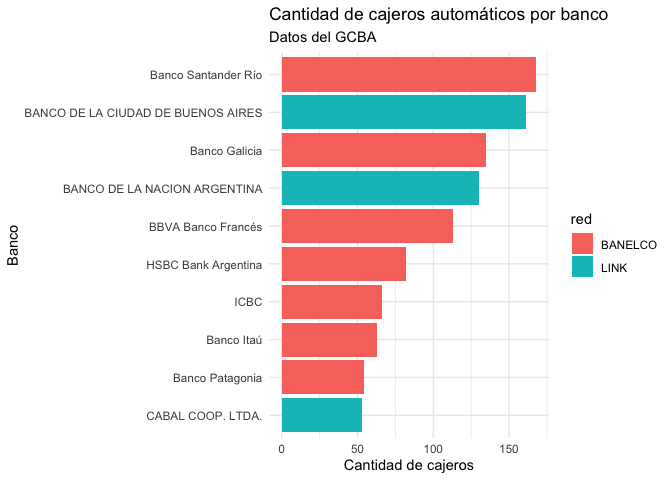
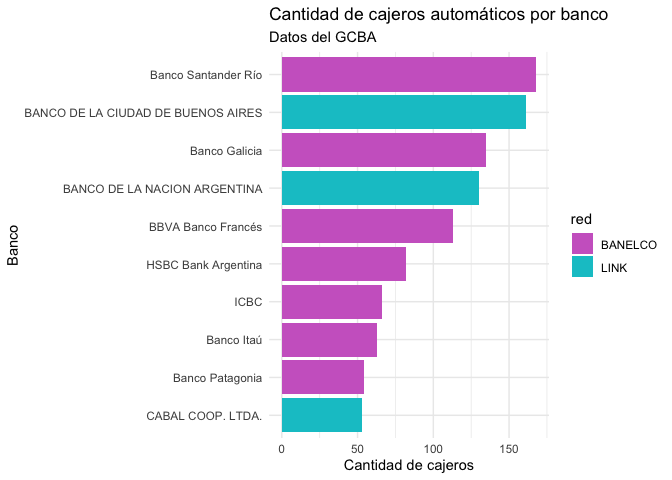
Cajeros automáticos en caba - script r knit

diff --git a/r-script-knit.md b/r-script-knit.md
@@ -1,12 +1,17 @@
 Script knitteado
 ================
 karinabartolome
-2021-05-05
+2021-05-06
 
 ``` r
-#  Comentario
+#  Cajeros automáticos
 library(dplyr)
+library(biscale)
 library(ggplot2)
+library(cowplot)
+library(stringr)
+library(sf)
+
 df <- read.csv('https://cdn.buenosaires.gob.ar/datosabiertos/datasets/cajeros-automaticos/cajeros-automaticos.csv')
 df %>% 
   group_by(banco, red) %>% 
@@ -16,9 +21,77 @@ df %>%
   ggplot(aes(x=reorder(banco,n),y=n, fill=red))+
     geom_col()+
     coord_flip()+
+    scale_fill_manual(values=c('orchid3','turquoise3'))+
     labs(title='Cantidad de cajeros automáticos por banco', 
          subtitle='Datos del GCBA', x='Banco',y='Cantidad de cajeros')+
     theme_minimal()
 ```
 
 ![](r-script-knit_files/figure-gfm/unnamed-chunk-1-1.png)<!-- -->
+
+``` r
+# Mapa barrios CABA
+
+caba <- st_read('http://cdn.buenosaires.gob.ar/datosabiertos/datasets/barrios/barrios.geojson') %>% 
+  mutate(barrio=str_to_title(barrio)) 
+```
+
+    ## Reading layer `barrios_badata' from data source `http://cdn.buenosaires.gob.ar/datosabiertos/datasets/barrios/barrios.geojson' using driver `GeoJSON'
+    ## Simple feature collection with 48 features and 4 fields
+    ## Geometry type: POLYGON
+    ## Dimension:     XY
+    ## Bounding box:  xmin: -58.53152 ymin: -34.70529 xmax: -58.33515 ymax: -34.52649
+    ## Geodetic CRS:  WGS 84
+
+``` r
+# Cantidad de cajeros por barrio
+df <- df %>% filter(localidad=='CABA') %>% 
+  group_by(barrio, red) %>% 
+  summarise(n=n()) %>% 
+  ungroup() %>%
+  filter(barrio!='') %>% 
+  tidyr::pivot_wider(names_from=red, values_from=n) %>% 
+  mutate(BANELCO = tidyr::replace_na(BANELCO,0), 
+         LINK = tidyr::replace_na(LINK,0))
+
+df_barrios <- merge(caba, df, by='barrio', all.x=TRUE, all.y=TRUE)
+
+# Data en formato biscale (quantiles)
+
+data_biscale <- bi_class(df_barrios, 
+                         x='LINK',
+                         y='BANELCO', 
+                         style="quantile",dim=3)
+
+# Mapa con biscale
+mapa <- ggplot() +
+  geom_sf(data = data_biscale, 
+          mapping = aes(fill = bi_class), 
+          color = "white", 
+          size = 0.1, 
+          show.legend = FALSE) +
+  bi_scale_fill(pal = "DkBlue", dim = 3) +
+  labs(title = "Cajeros automáticos",
+       subtitle = "Cantidad de cajeros por red y barrio de CABA", 
+       caption = "Fuente:Gobierno de la Ciudad de Buenos Aires") +
+  bi_theme()+
+  theme(plot.caption = element_text(hjust = 0.2))
+
+# Legend
+legend <- bi_legend(pal = "DkBlue",
+                    dim = 3,
+                    xlab = "LINK",
+                    ylab = "BANELCO",
+                    size = 8)
+
+# Mapa + Legend
+mapa <- ggdraw() +
+  draw_plot(mapa, 0, 0, 1, 1) +
+  draw_plot(legend, 0.63, 0.05, 0.2, 0.2)
+```
+
+``` r
+mapa
+```
+
+![](r-script-knit_files/figure-gfm/unnamed-chunk-2-1.png)<!-- -->
